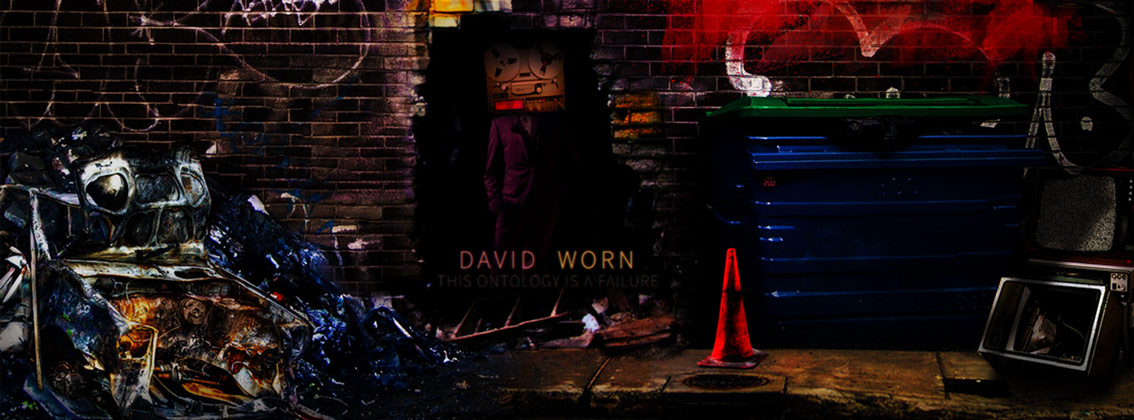
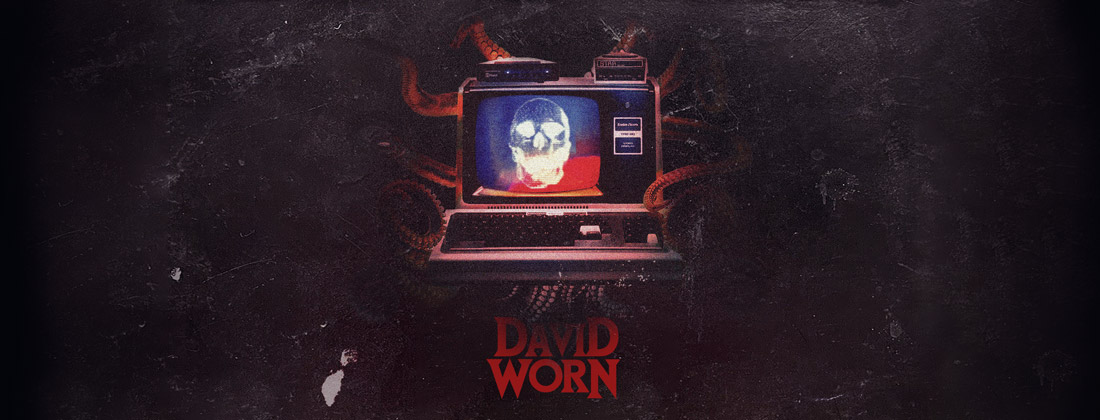
Updated links and headimg

diff --git a/2022/01/19/where-the-textfiles-at.html b/2022/01/19/where-the-textfiles-at.html
@@ -158,8 +158,8 @@
 <p>During all of this “research”, I listened to a lot of dial-up modem 
 handshake/connection sounds. And I mean <em>a lot</em>. I grew to recognize the different baud rates and communication protocols by sound. There is horror and dread in those strange tones, and I was hoping to mine that for the story. Oddly, I was unable to find the sound of the modem I had when I was kid among these recordings. Most of what I was finding was of 14.4kbps modems and above, all the way to the ubiquitous 56kbps of early internet days. That, however, was not the sound of <em>my</em> first dial-up experiences.</p>
 
-<p>Although I didn’t know it at the time, my family had an ancient modem, even for that era. So when everyone else was on 14.4kbps or even 56kbps, I was, it seems, still rocking an old 2400baud. And <em>that</em> is the handshake sound that is buried in my brain. Oddly, the 2400baud dial-up sound appears to be another casualty of history. Youtube is full of 56kbps videos and <a href="https://www.youtube.com/watch?v=vvr9AMWEU-c">spectrograms</a>, but 2400baud modem sounds are strangely absent. I was about to give up, when I landed on the back pages of an amazing Australian tech blog 
-<a href="https://archive.goughlui.com/legacy/soundofmodems/index.htm">soundofmodems</a> where the author obsessively detailed the different types of modem connection types and recorded audio files at all the major baud rates –now that’s my kind of crazy! Buried on the website were a few MP3s of a 2400 baud connection recorded on various hardware modems. One file in particular contained exactly the sound I remembered!</p>
+<p>Although I didn’t know it at the time, my family had an ancient modem, even for that era. So when everyone else was on 14.4kbps or even 56kbps, I was, it seems, still rocking an old 2400baud. And <em>that</em> is the handshake sound that is buried in my brain. Oddly, the 2400baud dial-up sound appears to be another casualty of history. Youtube is full of 56kbps videos and <a href="https://www.youtube.com/watch?v=vvr9AMWEU-c">spectrograms</a>, but 2400baud modem sounds are strangely absent. I was about to give up, when I landed on the archived <em>sound of modems</em> back pages of an amazing Australian tech blog<br />
+<a href="https://archive.goughlui.com/legacy/soundofmodems/index.htm">techzone</a> where the author obsessively detailed the different types of modem connection types and recorded audio files at all the major baud rates –now that’s my kind of crazy! Buried on the website were a few MP3s of a 2400 baud connection recorded on various hardware modems. One file in particular contained exactly the sound I remembered!</p>
 
 <audio controls="controls">
   <source type="audio/mp3" src="/images/v22b-2400b.mp3" />&lt;/source&gt;

diff --git a/index.html b/index.html
@@ -139,7 +139,7 @@
     <a href="https://github.com/worncassettes" class="social-link" target="_blank"><i class="ion ion-logo-github"></i></a>
   </li>
   
-</ul> 
+</ul>
   </div>
 </div>
 </section>
@@ -164,7 +164,7 @@
 			<img src="/images/vhs_adq.png"/>
            <h3 class="story-title">A DARK QUADRIVIUM </h3>
            <div class="story-description">Hidden in our written language, an ancient evil waits to be discovered.</div>
-			<div class="pubs">published in: Howls From the Dark Ages</div>
+			<div class="pubs">published in: <a href="https://www.amazon.com/dp/1736780042/">Howls From the Dark Ages<a></div>
         </div>
     
 
@@ -288,7 +288,7 @@
 		    </li>
 		    
 		    <li>
-			  <a href="https://www.goodreads.com/book/show/59697194-howls-from-the-dark-ages" target="_blank">Howls from the Dark Ages Anthology</a>
+			  <a href="https://howlsociety.com/anthology/" target="_blank">Howls from the Dark Ages Anthology</a>
 		    </li>
 		    
 		    <li>
